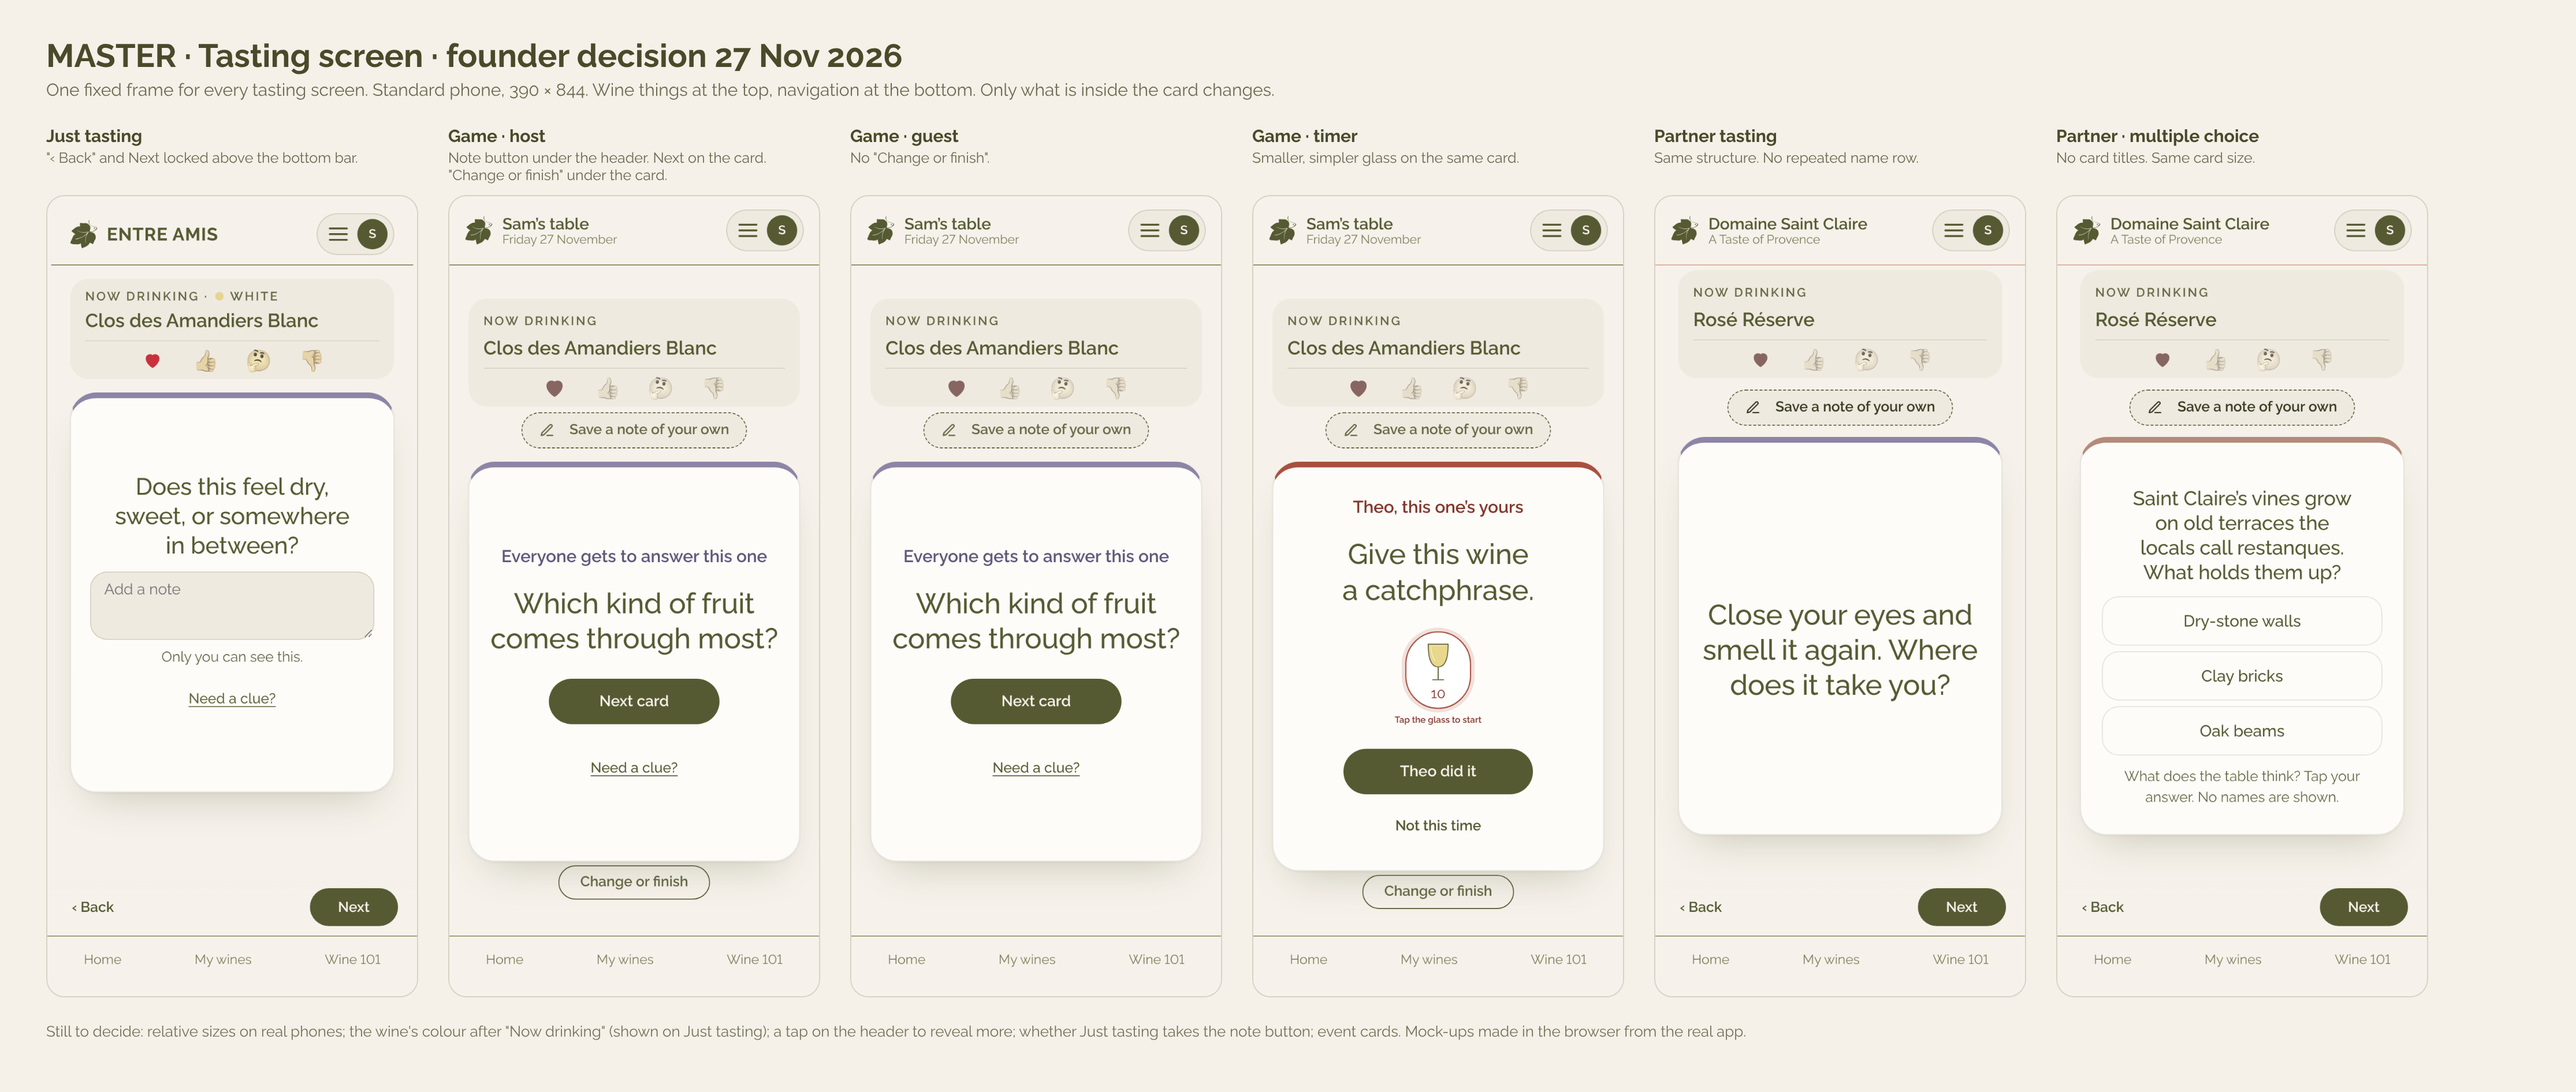
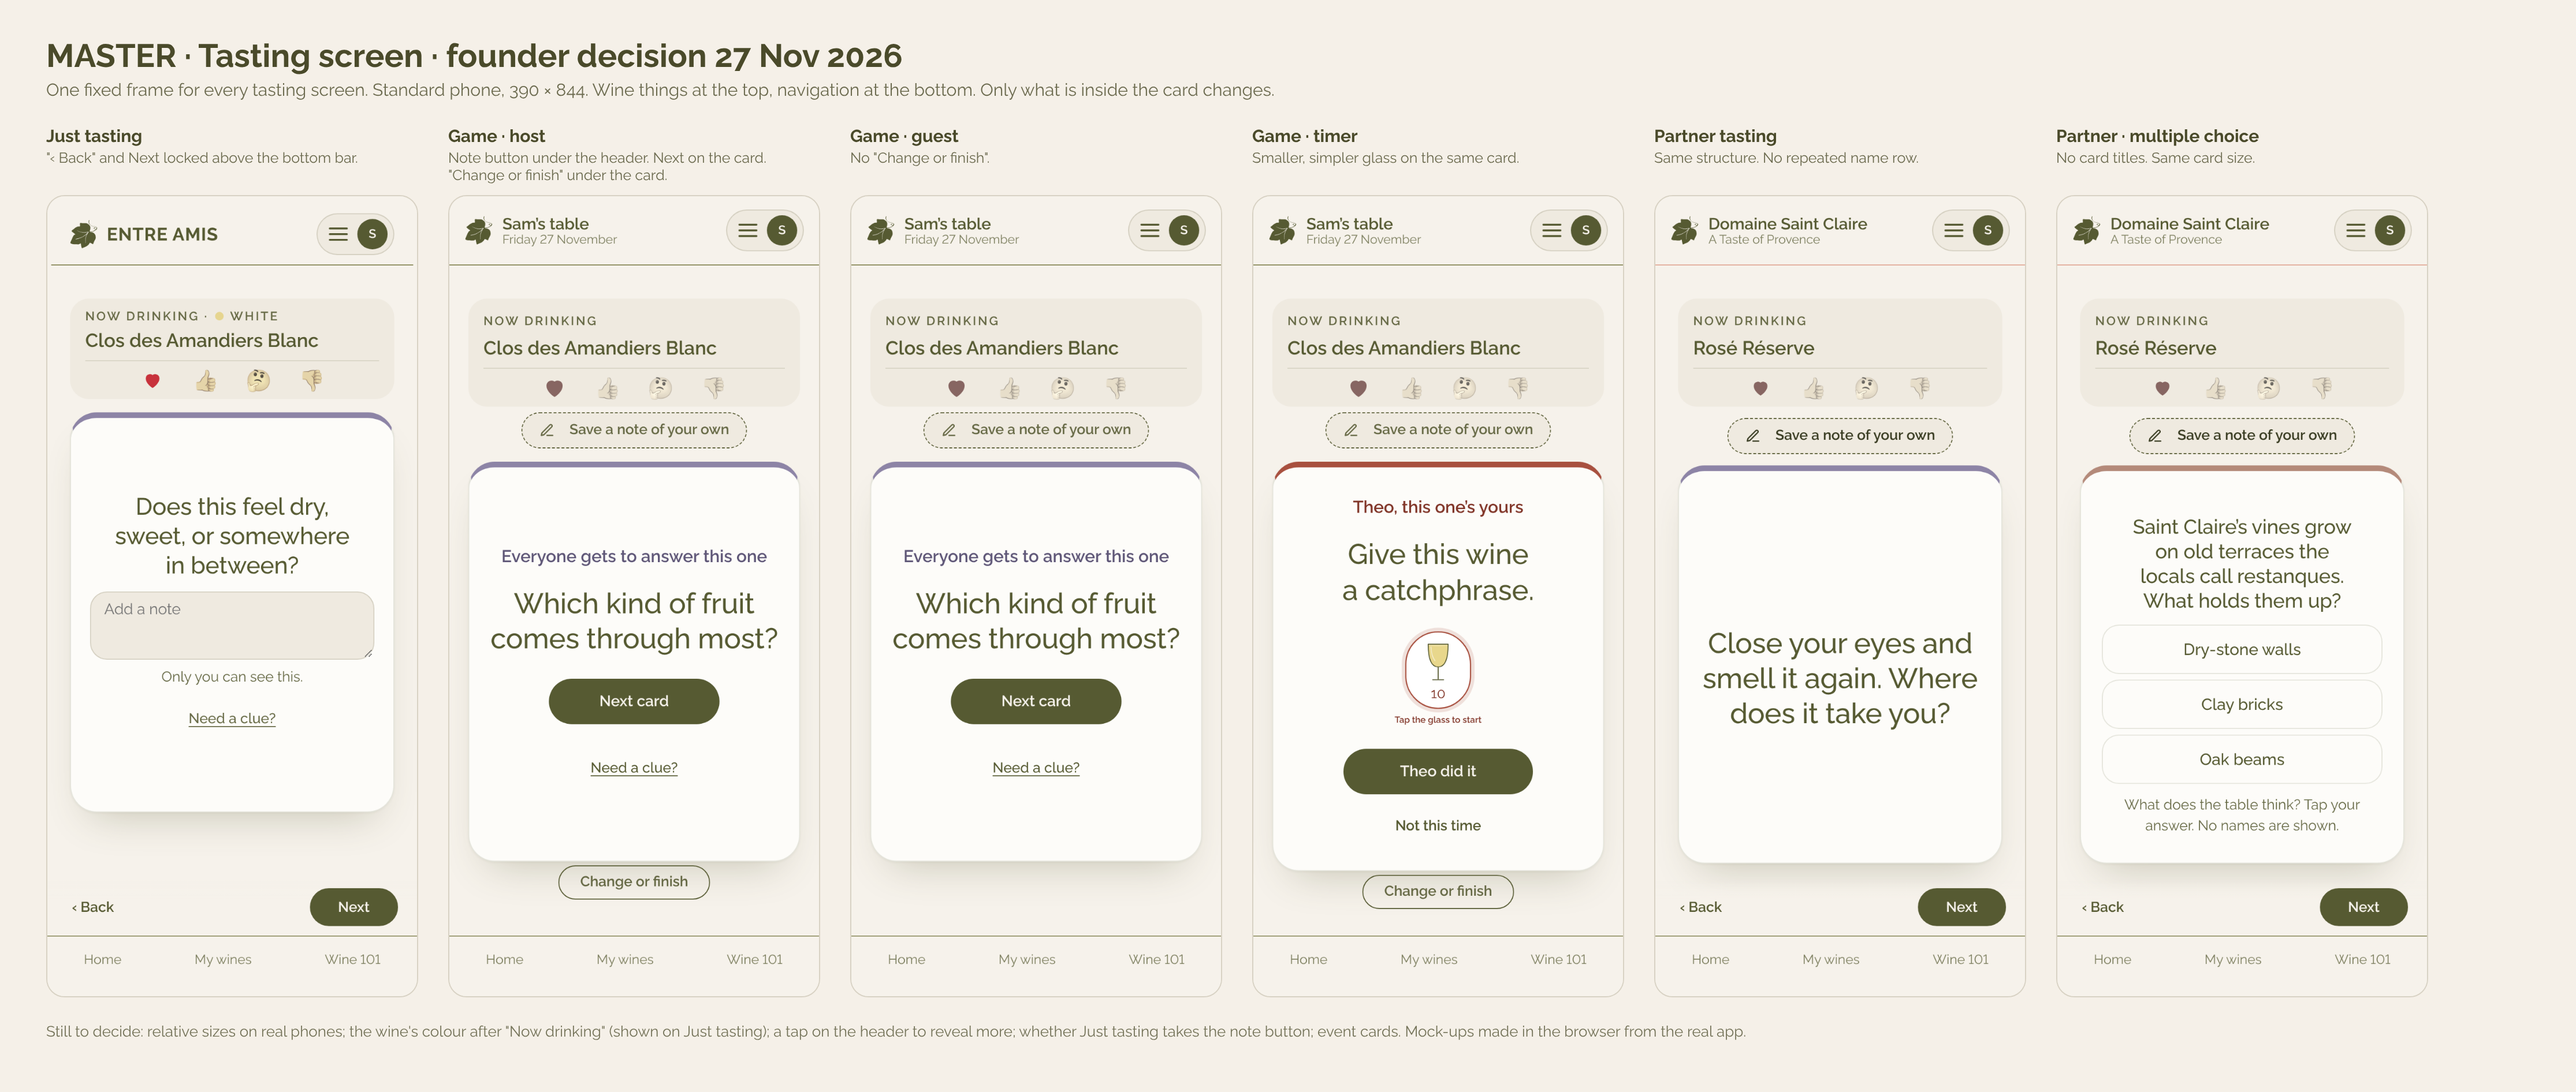
Brand Brain: one gap under the top bar on every tasting screen
The gap between the top bar and the wine header is smaller on partner
and Just tasting screens than in the game; listed as an exception to
amend, and the master image updated so every screen uses the game's gap.

Claude-Session: https://claude.ai/code/session_01PsiTzmdQFdFhaCsnWi6qwR

diff --git a/brand-brain/04-visual-identity.md b/brand-brain/04-visual-identity.md
@@ -458,7 +458,9 @@ Built screens that are exceptions today (build `3e338eb`), to be amended in
 the development brief: the wine header (star, producer line, full-colour
 reactions); Just tasting's "1 of 4" and full-width Next; the game's "Change or
 finish" under the header and "Add a note" under the card; the timer card,
-which runs under the bottom bar on a standard phone; the partner header ("In
+which runs under the bottom bar on a standard phone; the gap between the top
+bar and the wine header, which is smaller on partner and Just tasting screens
+than in the game (all screens take the game's gap); the partner header ("In
 your glass · 3 of 6"), its name row under the top bar, its card titles and its
 cards of different heights.
 
